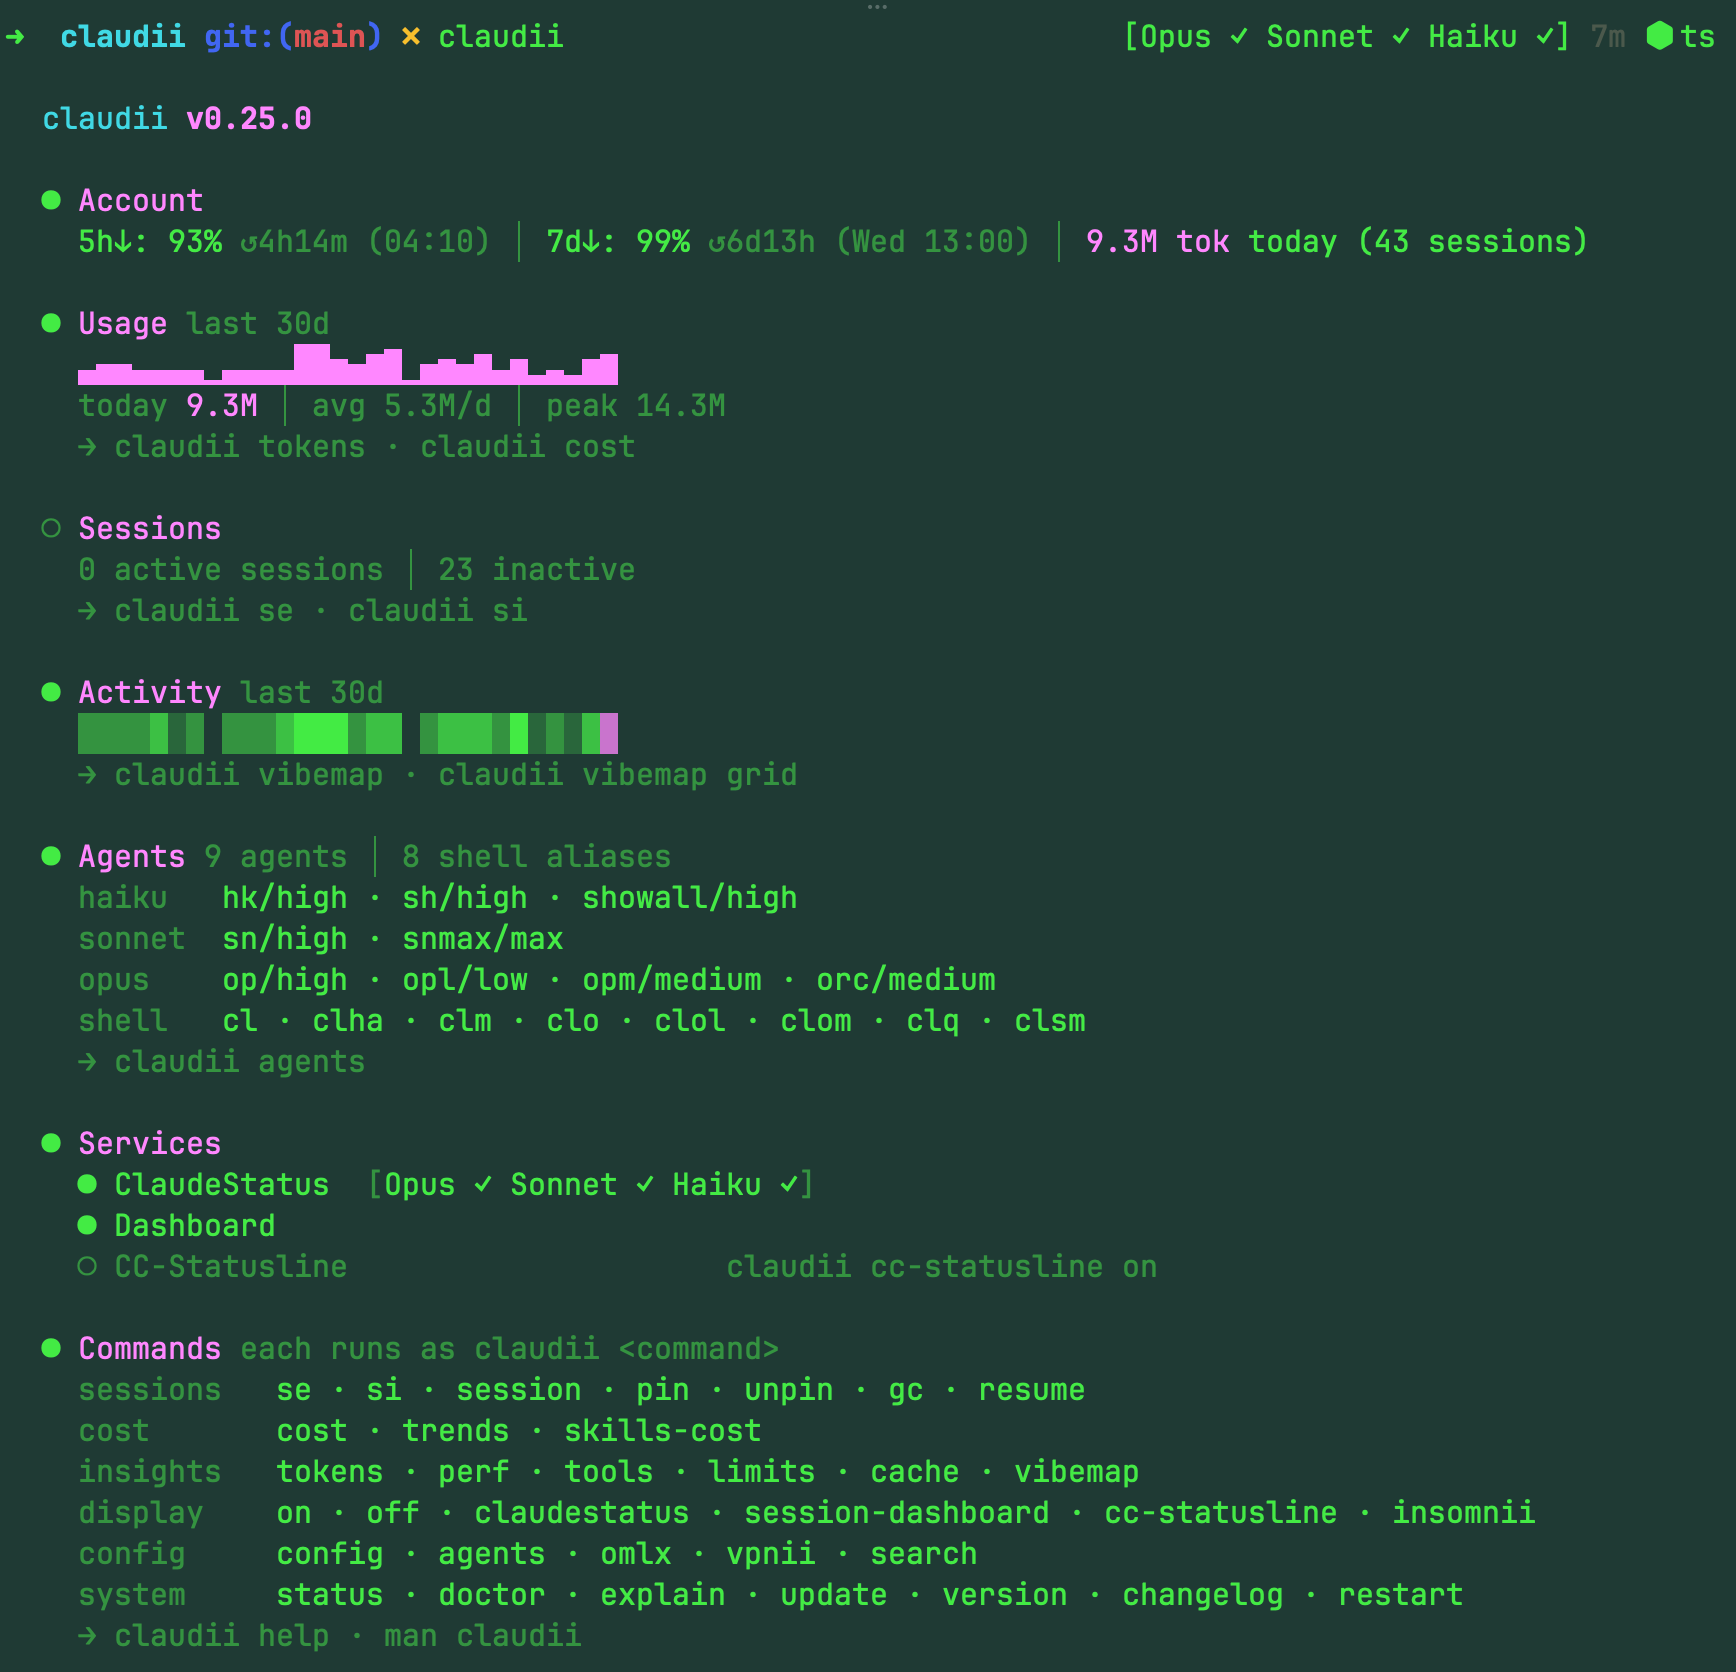
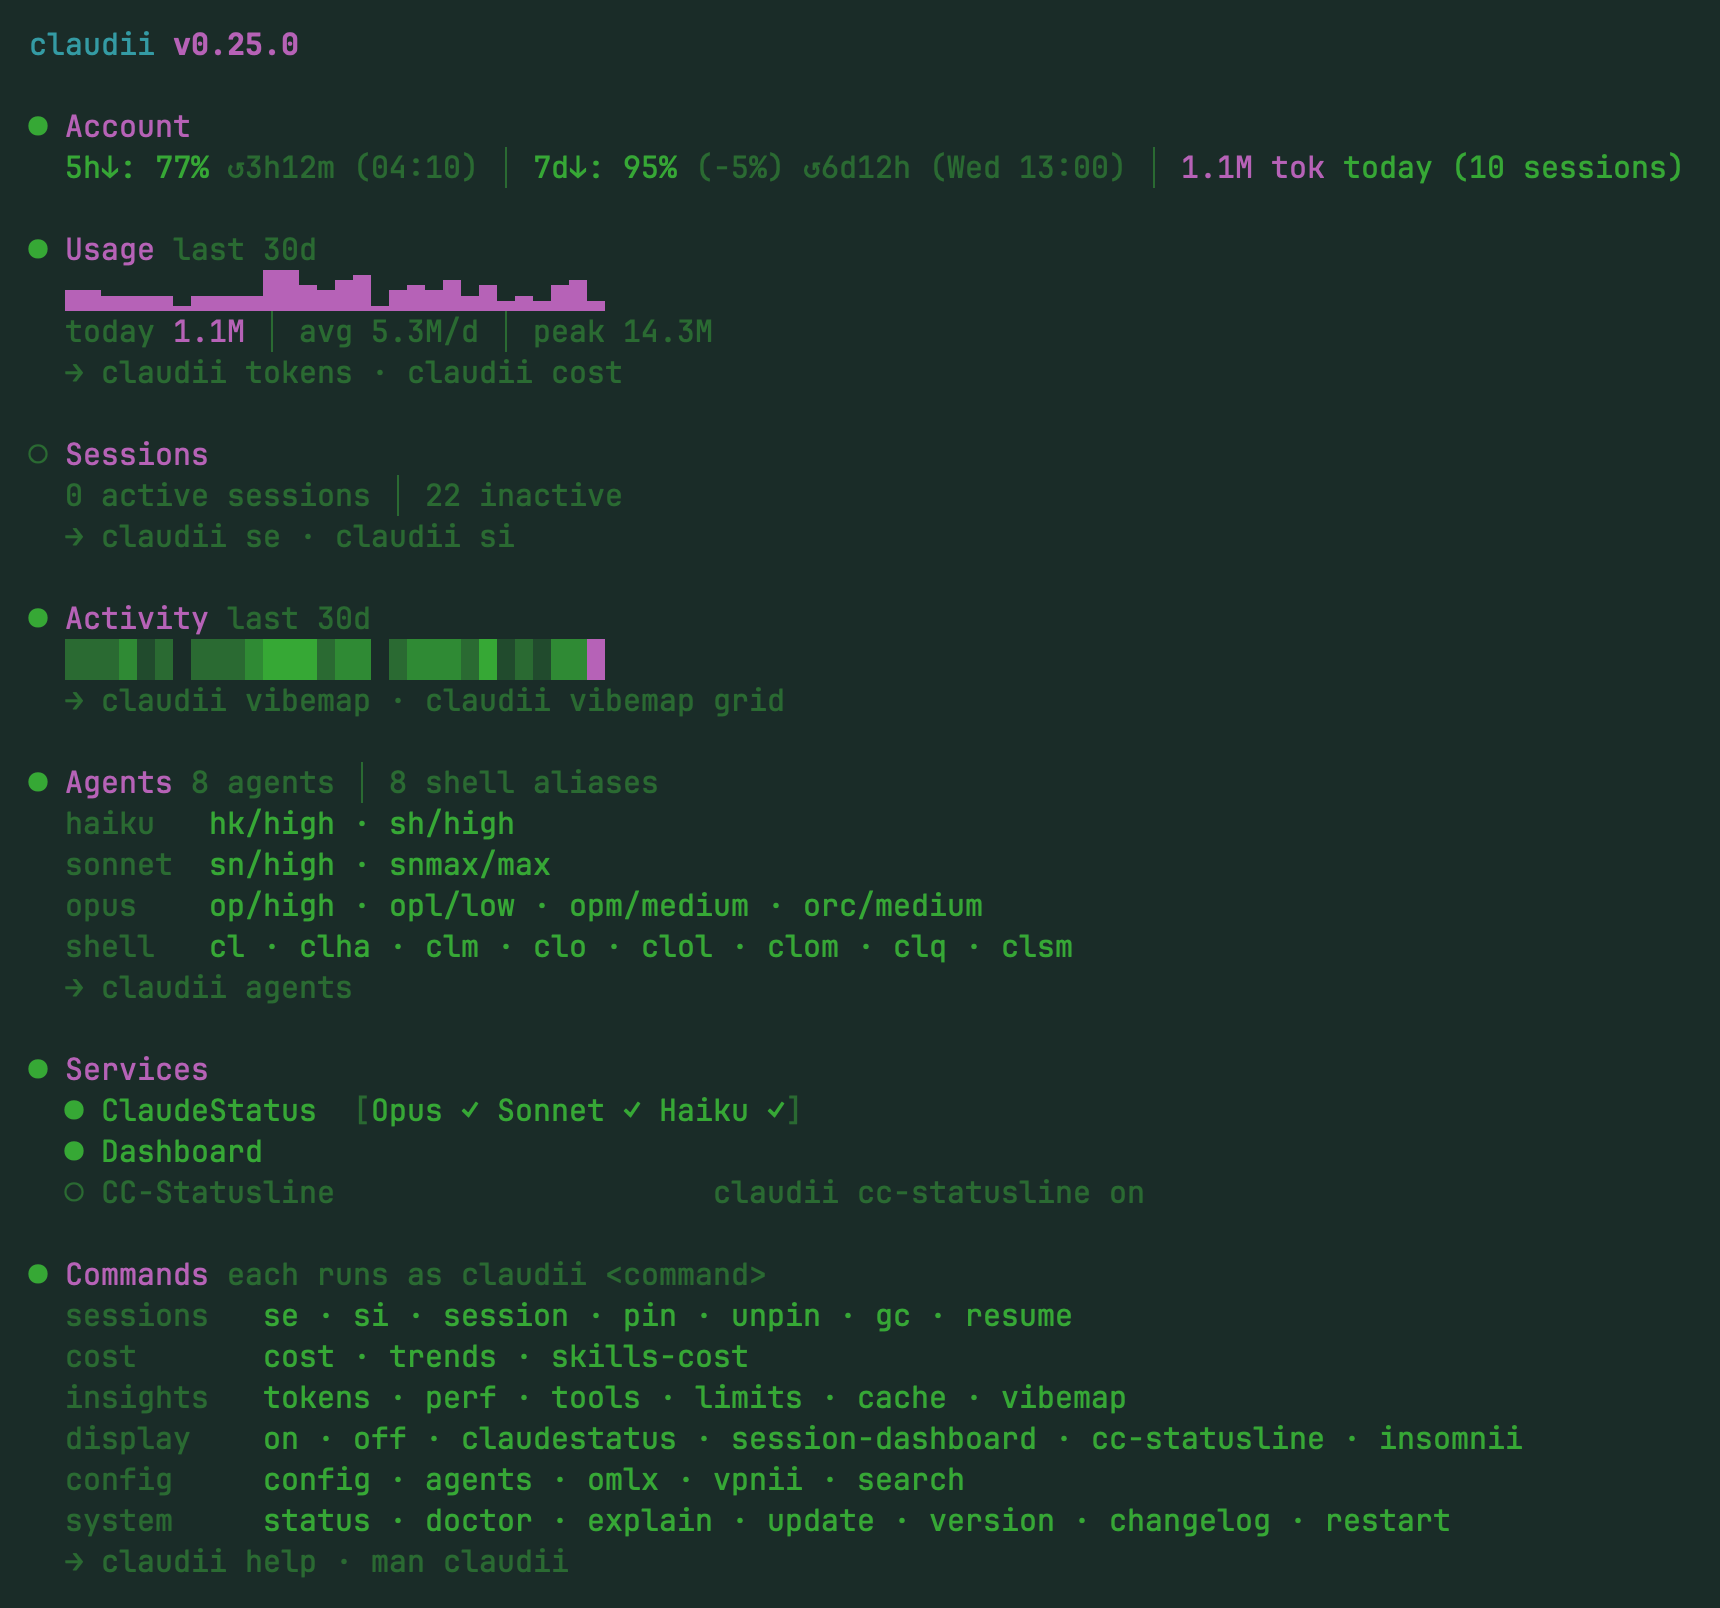
fix(docs): refresh overview screenshot — 8 agents, no dead showall alias
The homepage overview screenshot still showed 9 agents including
`showall/high`, an alias removed from config/defaults.json (it pointed
at a skill that never existed). Recaptured with the alias gone (8 agents,
haiku = hk/high · sh/high). New image is 1720×1608; <img> width/height
updated to match.

diff --git a/docs/index.html b/docs/index.html
@@ -101,7 +101,7 @@ Opus <span class="g">✓</span>  Sonnet <span class="g">✓</span>  Haiku <span 
   <p class="proof-caption">the real thing, in a real terminal</p>
   <div class="proof">
     <img src="screenshot-sessionline.png" alt="claudii sessionline status bar inside a Claude Code session" loading="lazy" width="1904" height="386">
-    <img src="screenshot-overview.png" alt="bare claudii overview command output in a terminal" loading="lazy" width="1736" height="1672">
+    <img src="screenshot-overview.png" alt="bare claudii overview command output in a terminal" loading="lazy" width="1720" height="1608">
   </div>
 
   <h2>Install</h2>